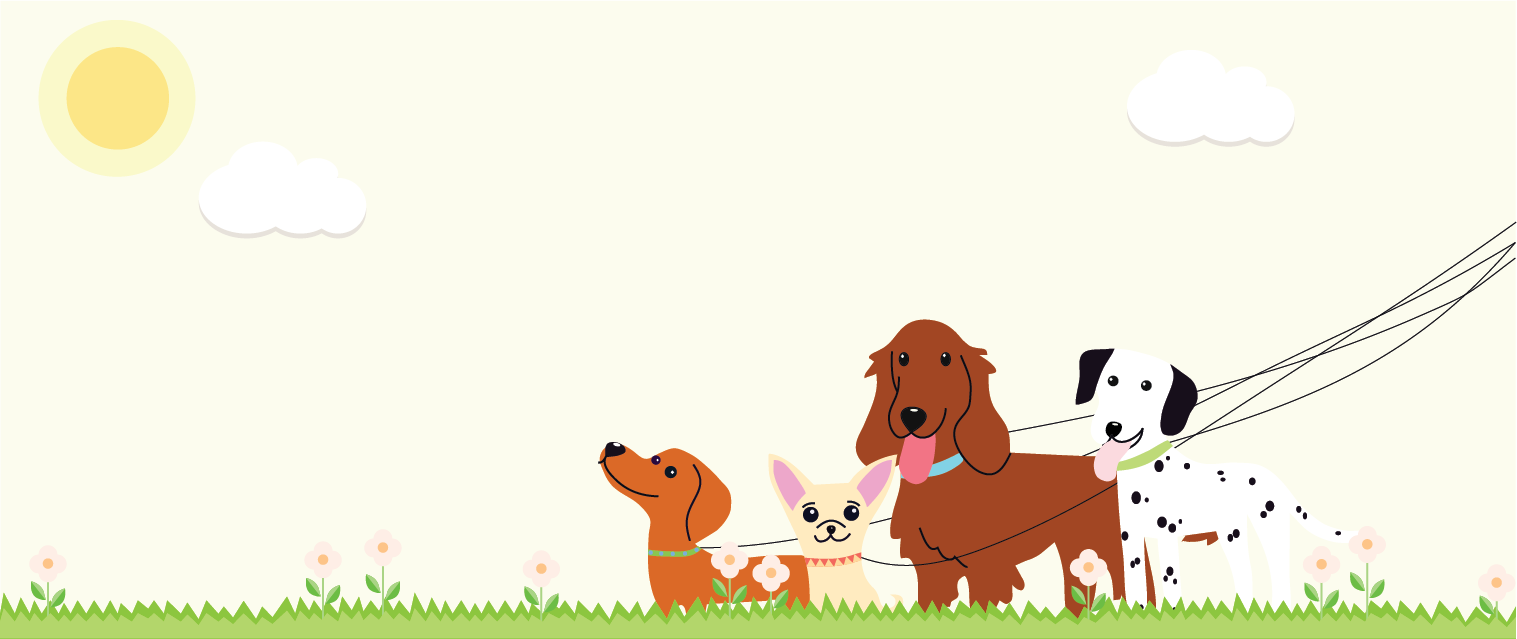
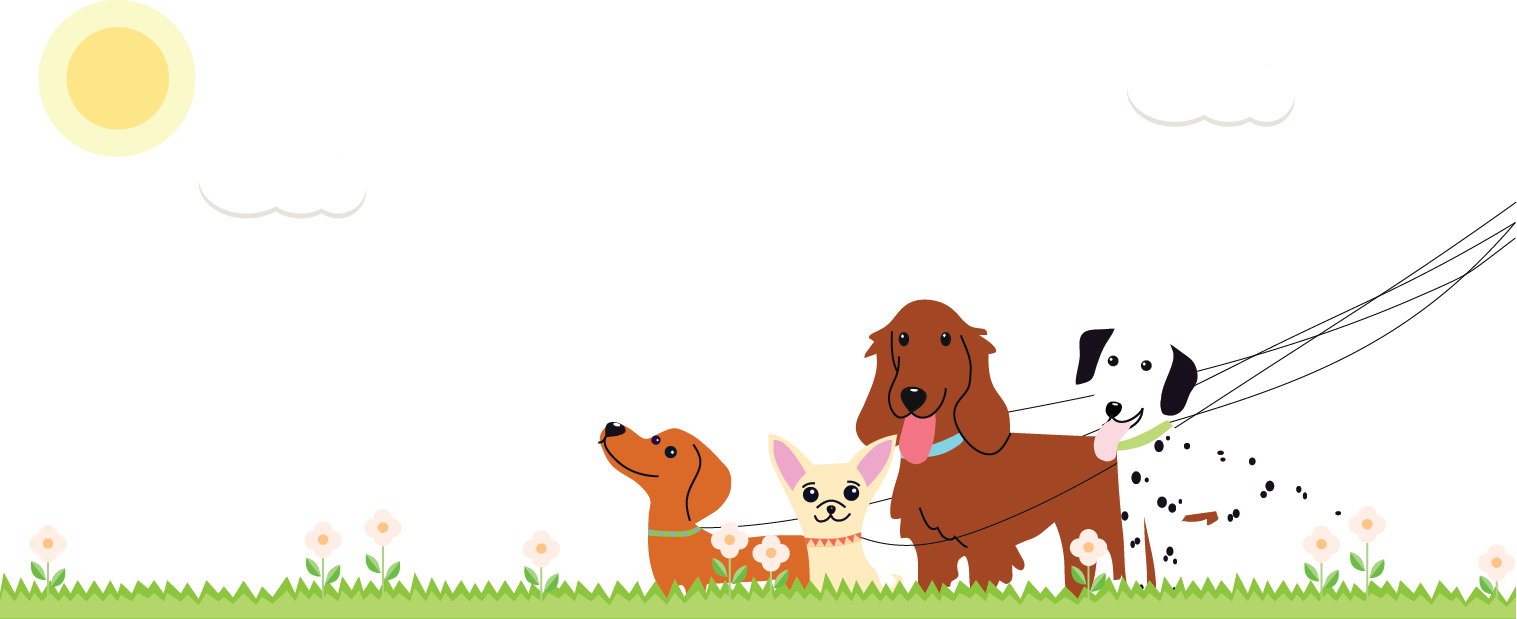
fixing background image

diff --git a/main.css b/main.css
@@ -1,6 +1,6 @@
 body {
 	overflow: hidden;
-	background-color: #E6F4F2;
+	background-color: #FBFBEC;
 	font-family: 'Raleway', sans-serif;
 	font-weight: 200;
 }
@@ -81,6 +81,7 @@ a:link, a:visited {
 .home{
 	position: absolute;
 	width: 100%;
+	height: 100%;
 	margin-top: 100px;
 	text-align: center;
 }
@@ -100,7 +101,8 @@ a:link, a:visited {
 
 #dog{
 	position: absolute;
-	top: 10%;
+	top: 16.5%;
+	max-width: 100%;
 }	
 
 .green{

diff --git a/index.html b/index.html
@@ -26,7 +26,7 @@
 </head>
 
 <body>
-	<img id="dog" src="dogs.png" alt="dog"/>
+	
 
 	<div class="nav">
 	<nav>
@@ -44,6 +44,8 @@
 	
 	</div>
 	
+	<img id="dog" src="dogs.png" alt="dog"/>
+
 	<div class="home">
 
 	<h2><span class="green">Pet sitting</span> and <span class="red">dog walking</span><br>for <span class="blue">charity</span>!</h2>
